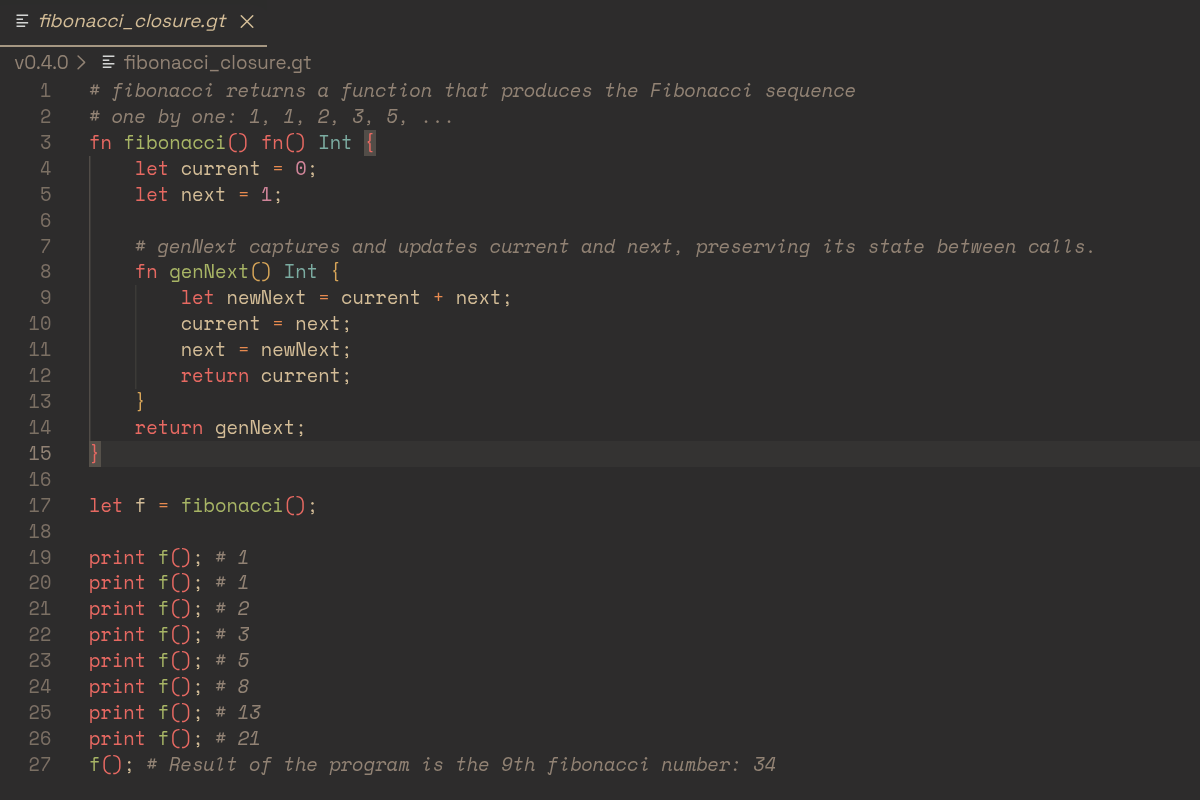
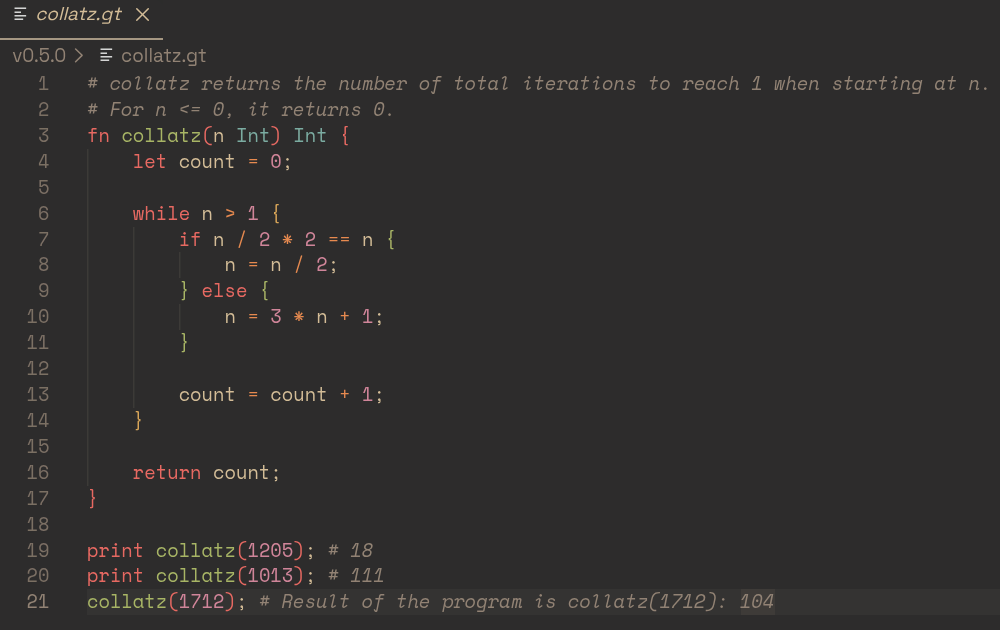
feat: add support for while loop introduced in GoTiny v0.5.0

diff --git a/README.md b/README.md
@@ -3,7 +3,7 @@
 VS Code language support for [GoTiny](https://github.com/shsiddhant/gotiny),
 a tiny statically-typed programming language implemented in Go.
 
-**Supports GoTiny v0.4.2**
+**Supports GoTiny v0.5.0**
 
 ## Screenshots
 

diff --git a/CHANGELOG.md b/CHANGELOG.md
@@ -1,5 +1,11 @@
 # Change Log
 
+## [v0.0.4]
+
+### Added
+
+- Add support for while loop.
+
 ## [v0.0.3]
 
 ### Added
